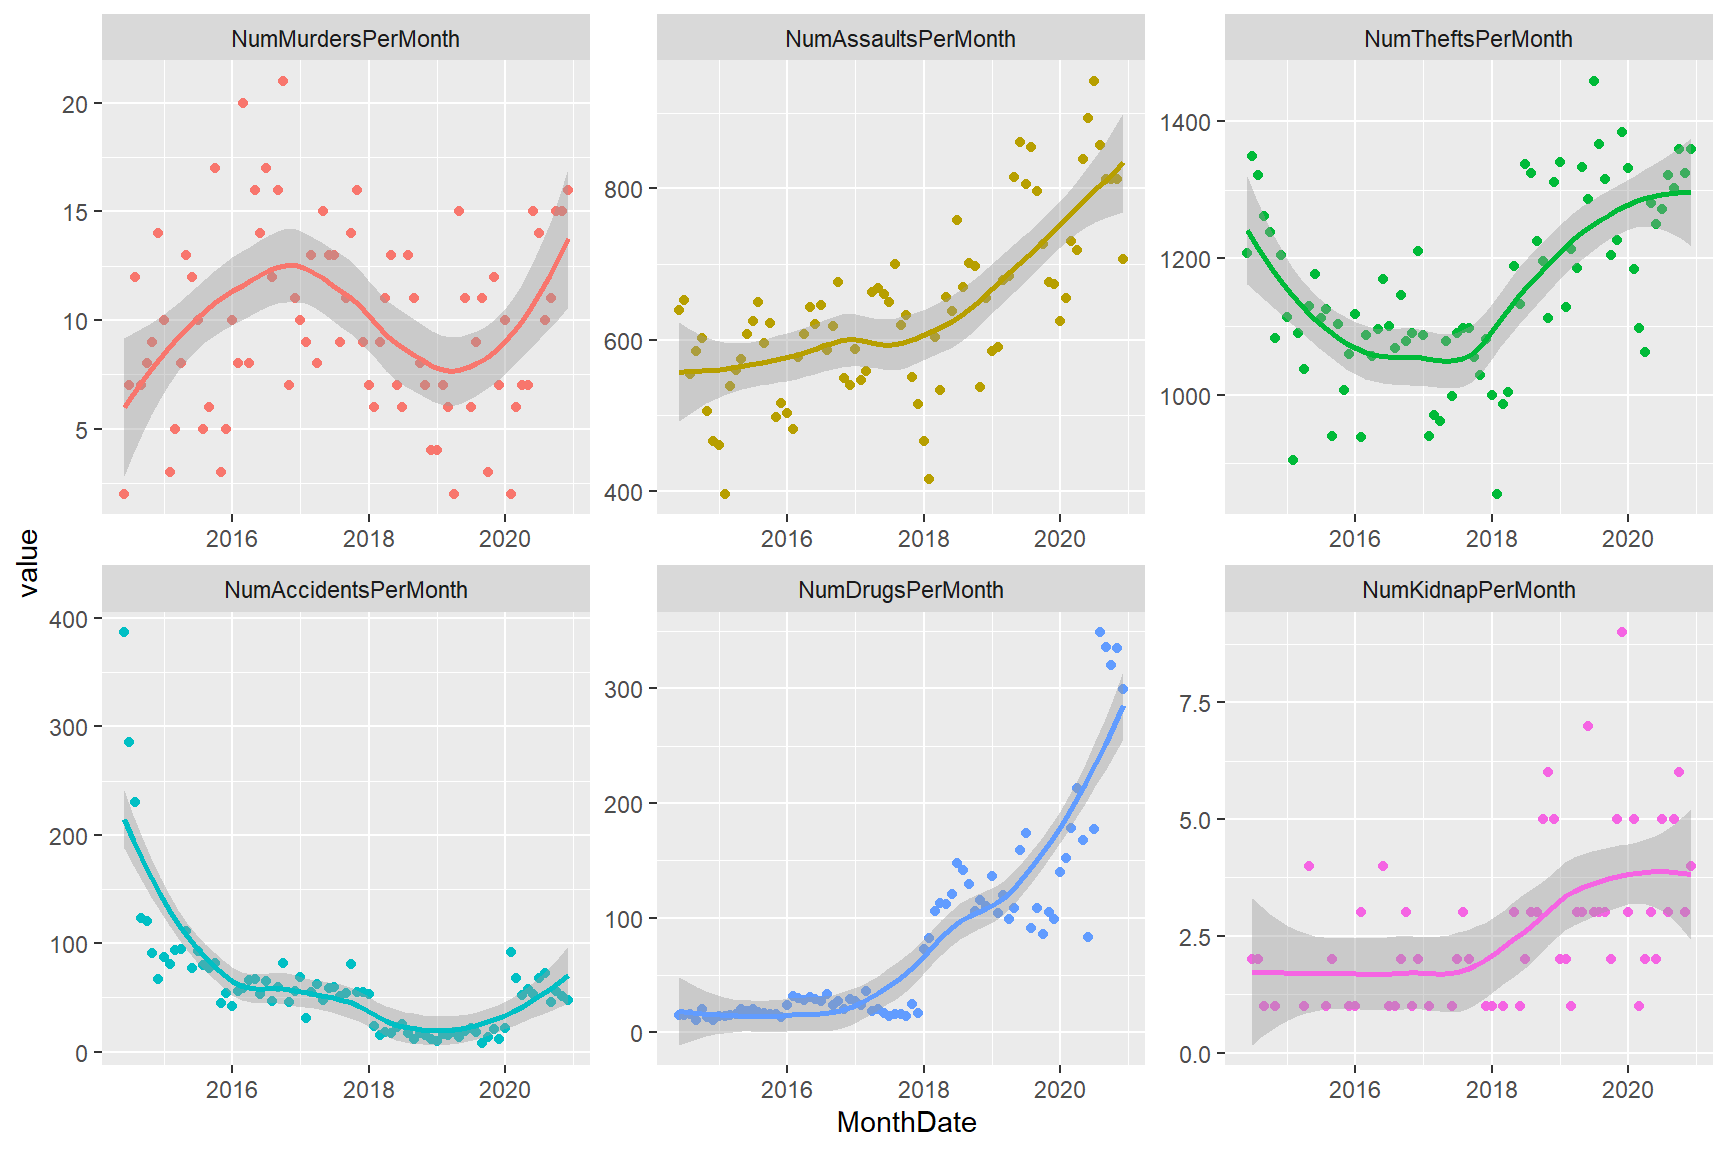
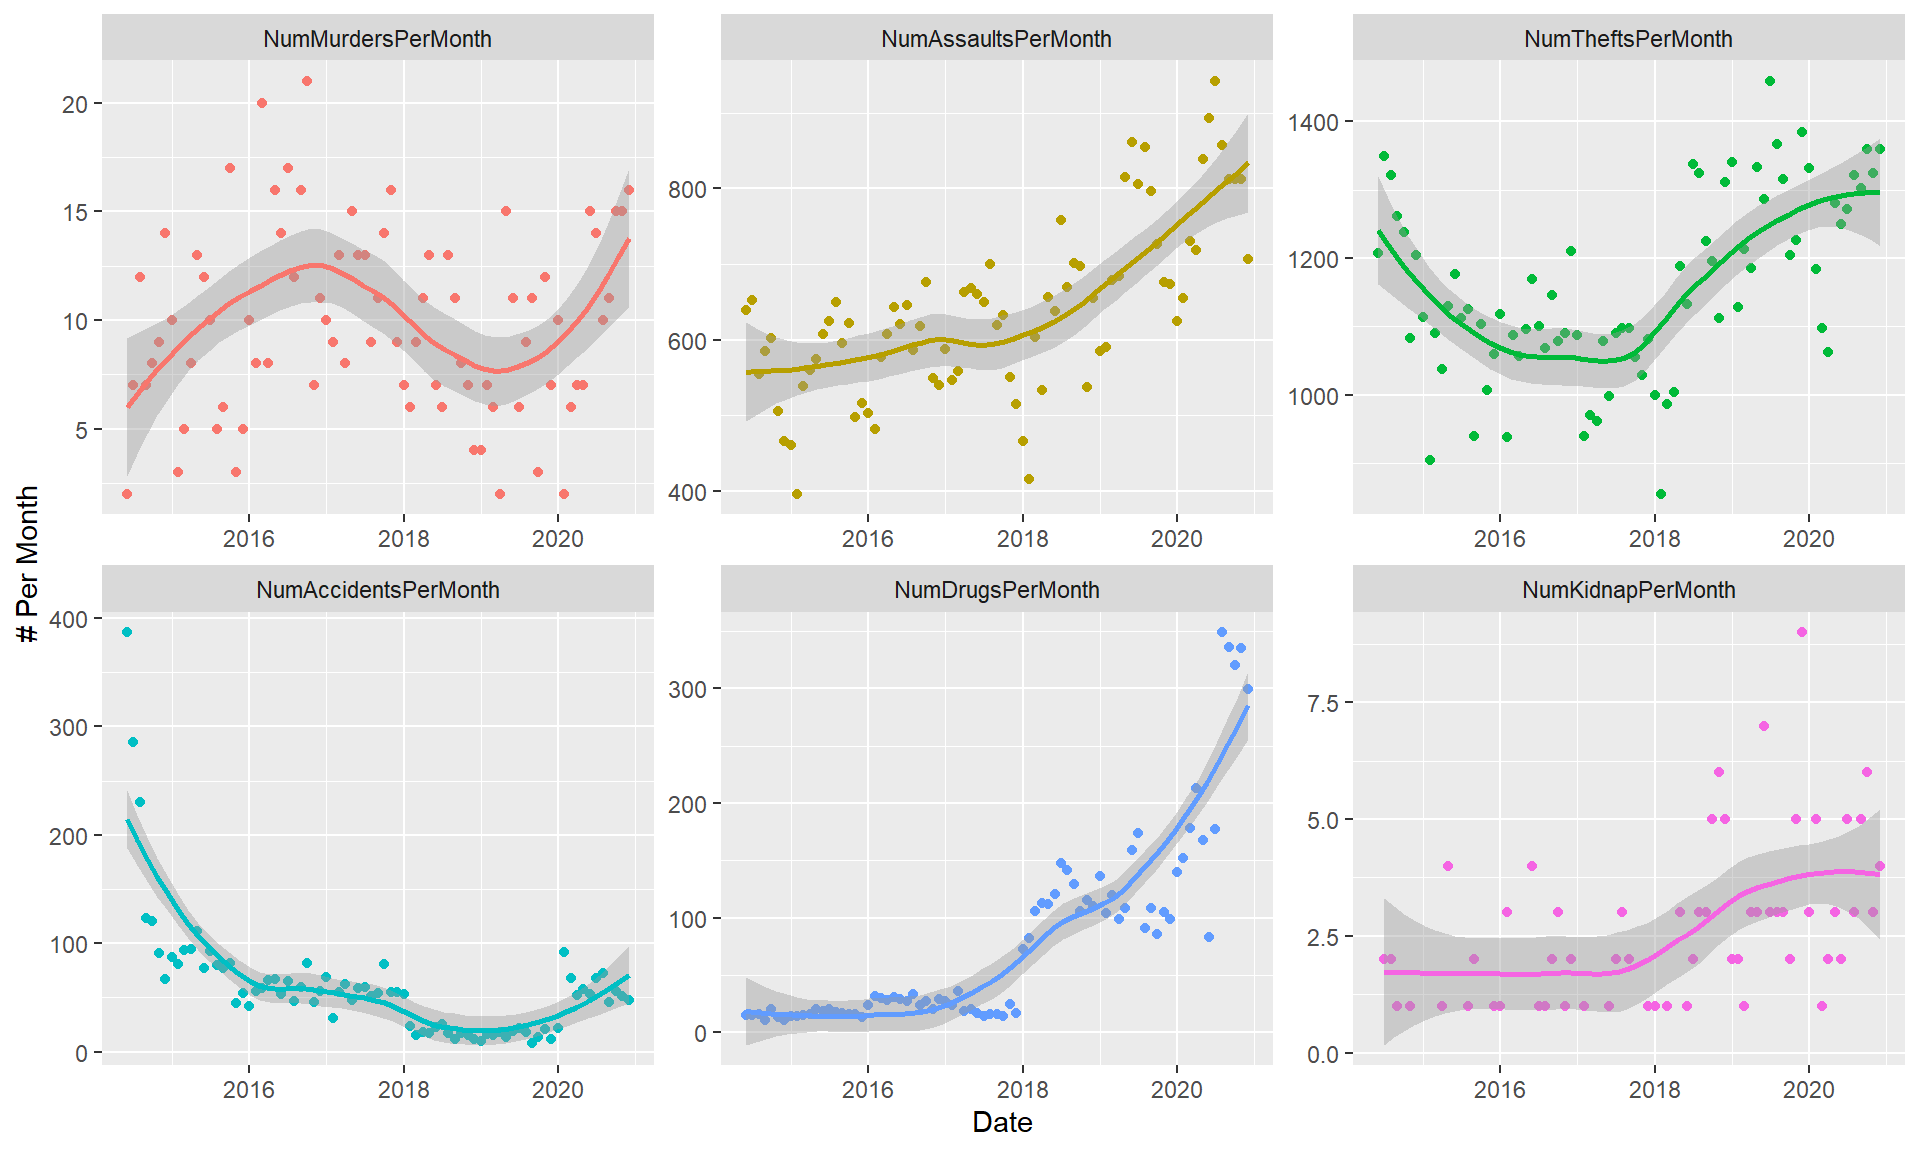
1234

diff --git a/content/post/2021-01-23-crime-rates-in-dallas/index.html b/content/post/2021-01-23-crime-rates-in-dallas/index.html
@@ -56,6 +56,7 @@ PI[,NumTheftsPerMonth := mean(NumTheftsPerMonth,na.rm = TRUE),by = MonthDate]</c
                            &quot;NumTheftsPerMonth&quot;,&quot;NumAccidentsPerMonth&quot;,&quot;NumDrugsPerMonth&quot;),
                by = MonthDate]
 
+# Remove falsely low month aggregated values since the month is not yet complete.
 combined &lt;- combined[MonthDate &lt; as.Date(&quot;2021-01-01&quot;)]
 
 combined &lt;- melt(combined,
@@ -63,7 +64,9 @@ combined &lt;- melt(combined,
                                   &quot;NumAccidentsPerMonth&quot;,&quot;NumDrugsPerMonth&quot;,&quot;NumKidnapPerMonth&quot;),
              id.vars = c(&quot;MonthDate&quot;))</code></pre>
 <p>Now finally plot the data:</p>
-<pre class="r"><code>ggplot(combined,aes(x = MonthDate)) + geom_point(aes(y = value,color = variable),na.rm = TRUE) +
-  geom_smooth(aes(y = value,color = variable),method = &quot;loess&quot;,formula = y ~ x,n = 50,na.rm = TRUE) +
-  facet_wrap(~variable,scales = &quot;free&quot;) + theme(legend.position = &quot;none&quot;)</code></pre>
-<p><img src="index_files/figure-html/Plot%20the%20Data-1.png" width="864" /></p>
+<pre class="r"><code>setnames(combined,old = names(combined),new = c(&quot;Date&quot;,&quot;Crime&quot;,&quot;# Per Month&quot;))
+
+ggplot(combined,aes(x = Date)) + geom_point(aes(y = `# Per Month`,color = Crime),na.rm = TRUE) +
+  geom_smooth(aes(y = `# Per Month`,color = Crime),method = &quot;loess&quot;,formula = y ~ x,n = 50,na.rm = TRUE) + 
+  facet_wrap(~Crime,scales = &quot;free&quot;) + theme(legend.position = &quot;none&quot;)</code></pre>
+<p><img src="index_files/figure-html/Plot%20the%20Data-1.png" width="960" /></p>
